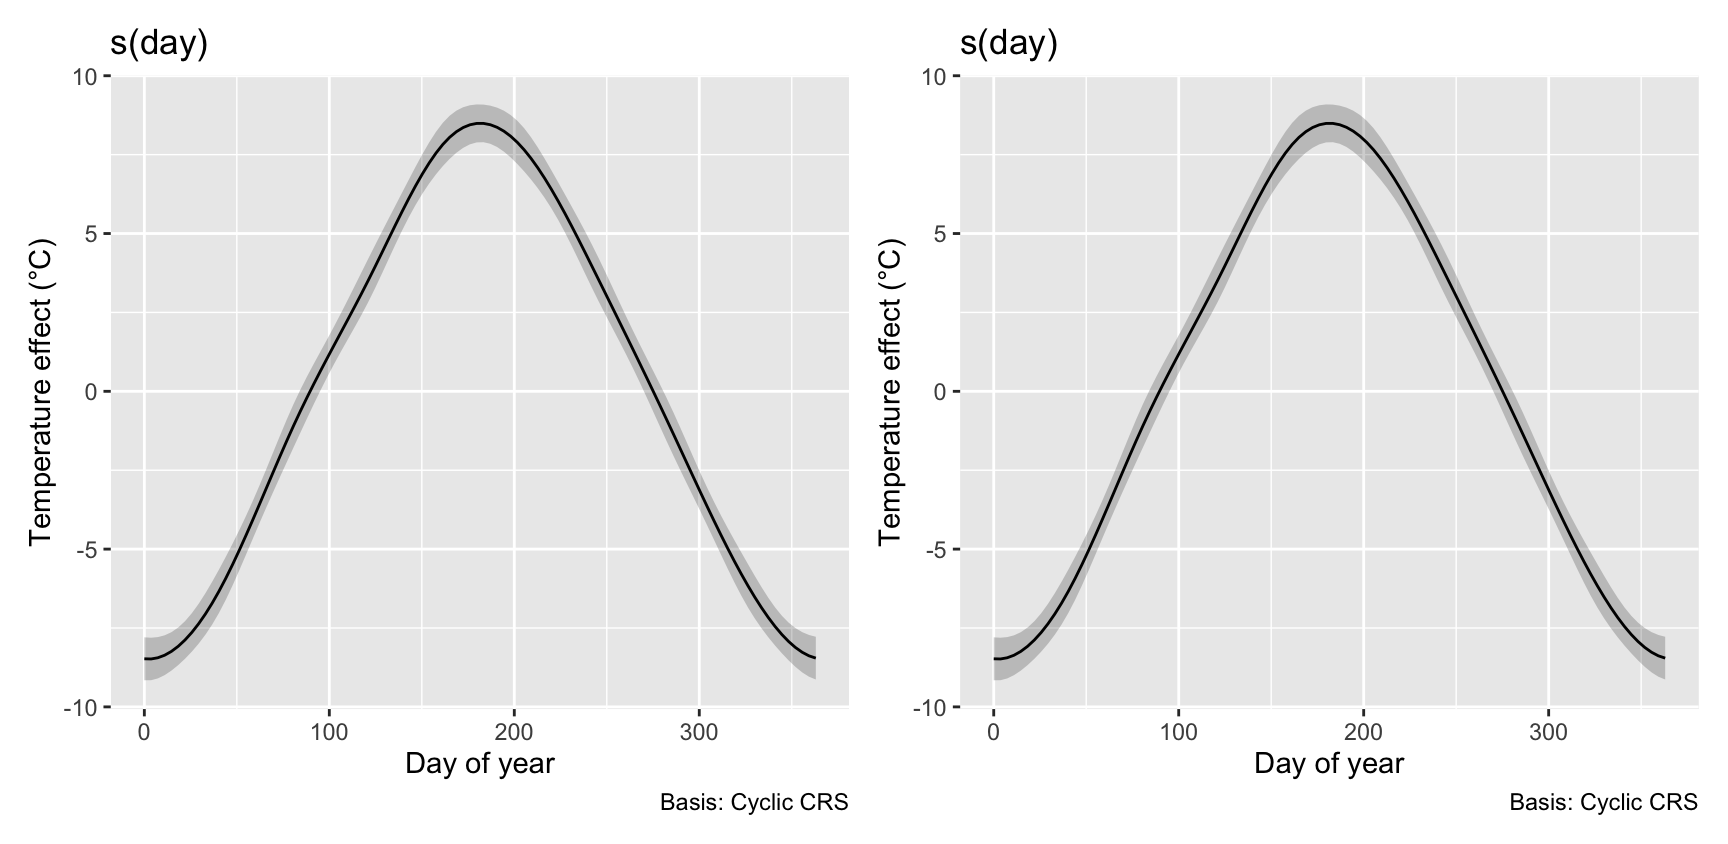
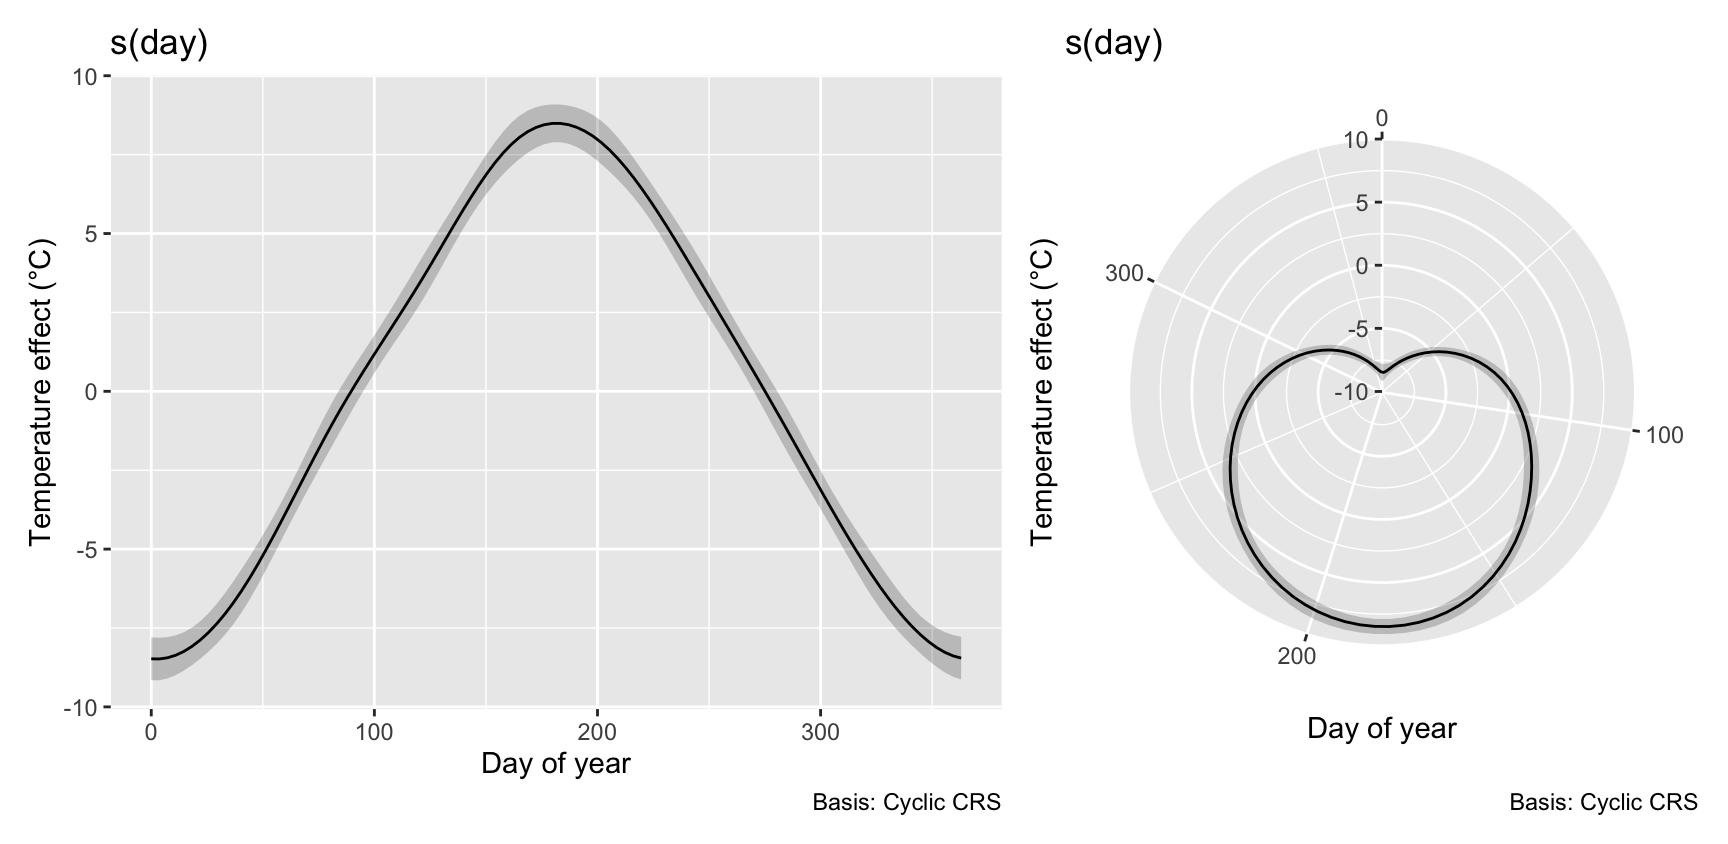
Fix the polar plot in the gratia announcement

diff --git a/_site/2026/11/23/gratia-0-12-1/index.html b/_site/2026/11/23/gratia-0-12-1/index.html
@@ -363,14 +363,17 @@ pre > code.sourceCode > span > a:first-child::before { text-decoration: underlin
 <span id="cb2-10"><a href="#cb2-10" aria-hidden="true" tabindex="-1"></a>  <span class="at">knots =</span> <span class="fu">list</span>(<span class="at">day =</span> <span class="fu">c</span>(<span class="dv">0</span>, <span class="dv">365</span>)), <span class="at">method =</span> <span class="st">"REML"</span></span>
 <span id="cb2-11"><a href="#cb2-11" aria-hidden="true" tabindex="-1"></a>)</span></code></pre></div><button title="Copy to Clipboard" class="code-copy-button"><i class="bi"></i></button></div>
 </div>
-<p>The usual partial effect plot for a cyclic smooth was the same as other univariate smooths. This remains the default, but from 0.12.1, you can choose to plot these using polar coordinates, which maps the smooth to a circle, with distance from centre encoding the partial effect. This is chosen using the <code>cyclic = "polar"</code> argument to <code>draw()</code>.</p>
+<p>The usual partial effect plot for a cyclic smooth was the same as other univariate smooths. This remains the default, but from 0.12.1, you can choose to plot these using polar coordinates, which maps the smooth to a circle, with distance from centre encoding the partial effect. This is chosen using the <code>cyclic = "polar"</code> argument to <code>draw()</code>. I select <code>s(day)</code> in both calls and use <code>wrap = FALSE</code> so I can label each plot before combining them.</p>
 <div class="cell">
-<div class="code-copy-outer-scaffold"><div class="sourceCode cell-code" id="cb3"><pre class="sourceCode r code-with-copy"><code class="sourceCode r"><span id="cb3-1"><a href="#cb3-1" aria-hidden="true" tabindex="-1"></a>linear <span class="ot">&lt;-</span> <span class="fu">draw</span>(seasonal, <span class="at">rug =</span> <span class="cn">FALSE</span>, <span class="at">xlab =</span> <span class="st">"Day of year"</span>,</span>
-<span id="cb3-2"><a href="#cb3-2" aria-hidden="true" tabindex="-1"></a>  <span class="at">ylab =</span> <span class="st">"Temperature effect (°C)"</span>)</span>
-<span id="cb3-3"><a href="#cb3-3" aria-hidden="true" tabindex="-1"></a>polar <span class="ot">&lt;-</span> <span class="fu">draw</span>(seasonal, <span class="at">cyclic =</span> <span class="st">"polar"</span>, <span class="at">rug =</span> <span class="cn">FALSE</span>,</span>
-<span id="cb3-4"><a href="#cb3-4" aria-hidden="true" tabindex="-1"></a>  <span class="at">xlab =</span> <span class="st">"Day of year"</span>, <span class="at">ylab =</span> <span class="st">"Temperature effect (°C)"</span>)</span>
-<span id="cb3-5"><a href="#cb3-5" aria-hidden="true" tabindex="-1"></a></span>
-<span id="cb3-6"><a href="#cb3-6" aria-hidden="true" tabindex="-1"></a>patchwork<span class="sc">::</span><span class="fu">wrap_plots</span>(linear, polar)</span></code></pre></div><button title="Copy to Clipboard" class="code-copy-button"><i class="bi"></i></button></div>
+<div class="code-copy-outer-scaffold"><div class="sourceCode cell-code" id="cb3"><pre class="sourceCode r code-with-copy"><code class="sourceCode r"><span id="cb3-1"><a href="#cb3-1" aria-hidden="true" tabindex="-1"></a>linear <span class="ot">&lt;-</span> <span class="fu">draw</span>(</span>
+<span id="cb3-2"><a href="#cb3-2" aria-hidden="true" tabindex="-1"></a>  seasonal, <span class="at">select =</span> <span class="st">"s(day)"</span>, <span class="at">rug =</span> <span class="cn">FALSE</span>, <span class="at">wrap =</span> <span class="cn">FALSE</span></span>
+<span id="cb3-3"><a href="#cb3-3" aria-hidden="true" tabindex="-1"></a>)[[<span class="dv">1</span>L]]</span>
+<span id="cb3-4"><a href="#cb3-4" aria-hidden="true" tabindex="-1"></a>polar <span class="ot">&lt;-</span> <span class="fu">draw</span>(</span>
+<span id="cb3-5"><a href="#cb3-5" aria-hidden="true" tabindex="-1"></a>  seasonal, <span class="at">select =</span> <span class="st">"s(day)"</span>, <span class="at">cyclic =</span> <span class="st">"polar"</span>, <span class="at">rug =</span> <span class="cn">FALSE</span>, <span class="at">wrap =</span> <span class="cn">FALSE</span></span>
+<span id="cb3-6"><a href="#cb3-6" aria-hidden="true" tabindex="-1"></a>)[[<span class="dv">1</span>L]]</span>
+<span id="cb3-7"><a href="#cb3-7" aria-hidden="true" tabindex="-1"></a></span>
+<span id="cb3-8"><a href="#cb3-8" aria-hidden="true" tabindex="-1"></a>axis_labels <span class="ot">&lt;-</span> ggplot2<span class="sc">::</span><span class="fu">labs</span>(<span class="at">x =</span> <span class="st">"Day of year"</span>, <span class="at">y =</span> <span class="st">"Temperature effect (°C)"</span>)</span>
+<span id="cb3-9"><a href="#cb3-9" aria-hidden="true" tabindex="-1"></a>patchwork<span class="sc">::</span><span class="fu">wrap_plots</span>(linear <span class="sc">+</span> axis_labels, polar <span class="sc">+</span> axis_labels)</span></code></pre></div><button title="Copy to Clipboard" class="code-copy-button"><i class="bi"></i></button></div>
 <div class="cell-output-display">
 <div class="quarto-figure quarto-figure-center">
 <figure class="figure">
